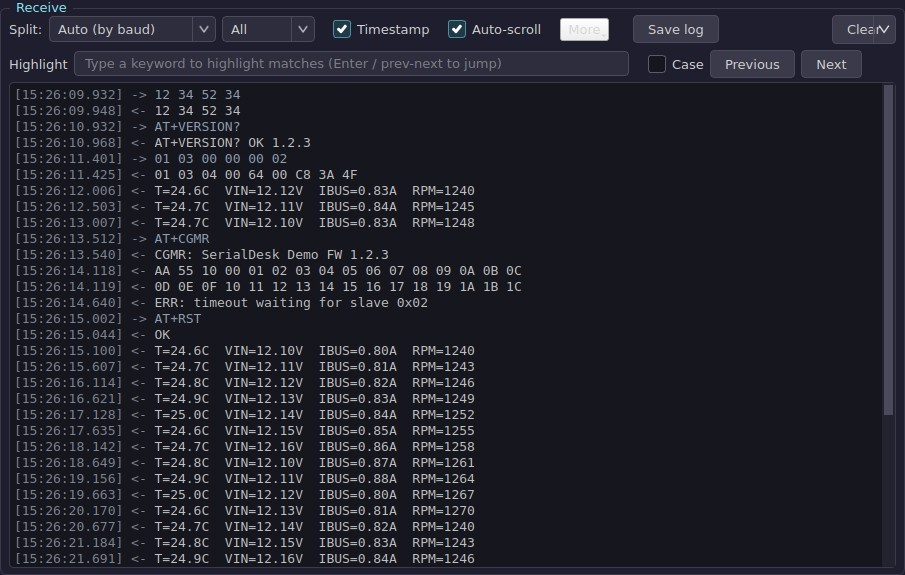
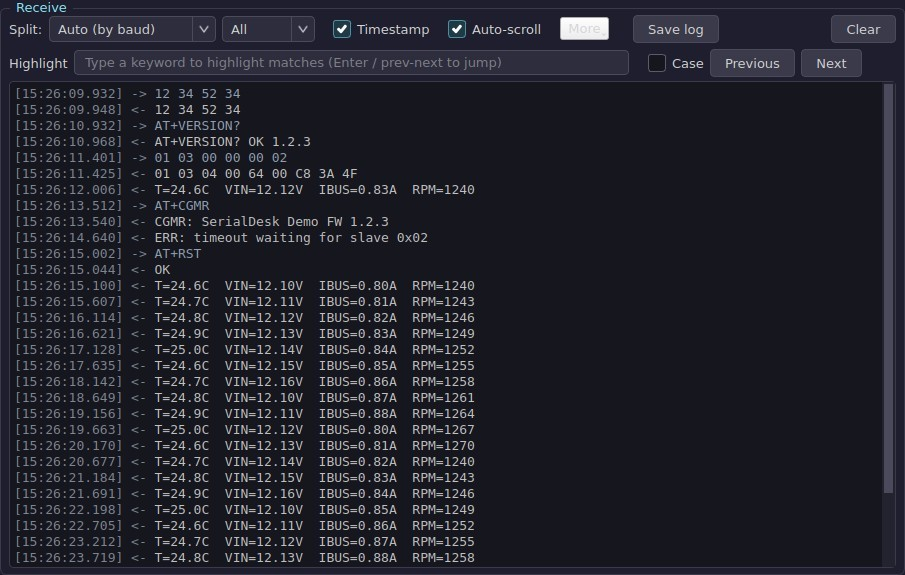
feat(rx): one Clear action - display + counters, no split menu (Andy)
The split button (clear display / clear+counters / reset counters) is a single plain
QPushButton now: one click clears the display and the counters together (still
undoable within 5 s), and Ctrl+L does the same. Removed: the clear-menu and its two
actions, the Settings-menu 'reset counters' entry, on_reset_counters(), the #clearBtn
QSS (dark+light) that gave it the grey fill and the tick-looking dropdown glyph, and
the now-unused i18n keys. Tests updated (150 green), QSS snapshots refreshed, receive
screenshots regenerated.

diff --git a/app/i18n.py b/app/i18n.py
@@ -125,7 +125,6 @@ STRINGS: dict[str, dict[str, str]] = {
     "find.count.tip": {"zh": "当前命中 / 总数", "en": "current hit / total"},
 
     "rx.cleared": {"zh": "已清空接收区（5 秒内可撤销）", "en": "Receive pane cleared (undo within 5 s)"},
-    "rx.counters_reset": {"zh": "计数已清零（显示不变）", "en": "Counters reset (display untouched)"},
     "rx.undo.done": {"zh": "已恢复清空前的显示", "en": "Display restored"},
     "undo.label": {"zh": "撤销", "en": "Undo"},
     "find.label": {"zh": "高亮", "en": "Highlight"},
@@ -137,7 +136,7 @@ STRINGS: dict[str, dict[str, str]] = {
     "find.close.tip": {"zh": "关闭查找（Esc）", "en": "Close the find bar (Esc)"},
     "find.none": {"zh": "未找到: {text}", "en": "Not found: {text}"},
     "sc.send.tip": {"zh": "发送（Ctrl+Enter）", "en": "Send (Ctrl+Enter)"},
-    "sc.clear.tip": {"zh": "清空显示（Ctrl+L，可撤销）", "en": "Clear the display (Ctrl+L, undoable)"},
+    "sc.clear.tip": {"zh": "清空显示与计数（Ctrl+L，5 秒内可撤销）", "en": "Clear the display and the counters (Ctrl+L, undoable within 5 s)"},
     "sc.save.tip": {"zh": "保存接收日志（Ctrl+S）", "en": "Save receive log (Ctrl+S)"},
     "sc.open.tip": {"zh": "打开/关闭串口（F5）", "en": "Open/close the port (F5)"},
     "rx.cap": {
@@ -212,7 +211,6 @@ STRINGS: dict[str, dict[str, str]] = {
         "en": "Tick to prefix every receive line with a timestamp, always shaped like [04:02:10.456]",
     },
     "btn.clear": {"zh": "清空", "en": "Clear"},
-    "btn.clear.all": {"zh": "清空显示与计数", "en": "Clear display and counters"},
     # ---- receive log to file (T4) ----
     "btn.save_log_quick": {"zh": "保存日志", "en": "Save log"},
     "btn.save_log_as": {"zh": "日志另存为…", "en": "Save log as…"},
@@ -331,7 +329,6 @@ STRINGS: dict[str, dict[str, str]] = {
     "update.none": {"zh": "已是最新版本", "en": "You are up to date"},
     "update.fail": {"zh": "检查更新失败（网络或服务不可用）", "en": "Update check failed (network or service unavailable)"},
     "menu.open_log_dir": {"zh": "打开日志目录", "en": "Open logs folder"},
-    "menu.reset_counters": {"zh": "清零计数", "en": "Reset counters"},
     "about.copy": {"zh": "复制诊断信息", "en": "Copy diagnostics"},
     "about.copied": {"zh": "诊断信息已复制到剪贴板", "en": "Diagnostics copied to the clipboard"},
     "menu.shortcuts": {"zh": "快捷键一览…", "en": "Keyboard shortcuts…"},

diff --git a/ui/main_window.py b/ui/main_window.py
@@ -86,7 +86,7 @@ from ui.quick_send_panel import RAIL_W, QuickSendPanel
 from ui.retranslate import retranslate_ui
 from ui.menus import build_menu
 from ui.log_controller import apply_autosave_settings, log_append, log_close, log_header_text, log_open, on_log_line, on_save_log_as, on_save_log_quick, show_autosave_settings
-from ui.receive_controller import append_header_split, append_rx_group, emit_rx_text, flush_byte_frames, flush_rx_frames, on_clear, on_clear_and_counters, on_received, recolor_rx_view, resume_rx_display, rx_tooltip, snapshot_rx_fragments, on_reset_counters, on_filter_changed
+from ui.receive_controller import append_header_split, append_rx_group, emit_rx_text, flush_byte_frames, flush_rx_frames, on_clear, on_clear_and_counters, on_received, recolor_rx_view, resume_rx_display, rx_tooltip, snapshot_rx_fragments, on_filter_changed
 from ui.send_controller import abort_file_send, apply_checksum, clear_history, finish_file_send, flush_history_save, on_history_fill, on_increment_changed, on_quick_send, on_send, on_send_file, prune_history_meta, recall_history, remember_send, remove_history_entries, reset_increment, schedule_history_save, send_file_chunk, show_history, update_history_button, update_payload_size
 from ui.connection_controller import ensure_port, notify, on_opened_changed, on_reconnect_toggled, on_worker_error, poll_signals, recolor_status_light, refresh_ports, signals_html, toggle_open, update_port_tooltip
 from ui.params_controller import baud_value, check_baud, check_hex_input, encoding, format_rx, newline_bytes, on_header_changed, on_split_mode_changed, on_tx_fmt_changed, persist_newline, refresh_tx_settings_chip, serial_params, split_byte_params, split_threshold_ms, ts_prefix, update_input_placeholder
@@ -301,8 +301,6 @@ class MainWindow(QMainWindow):
     def _reset_increment(self) -> None:
         """Qt slot: put the increment counter back to its start value (U180)."""
         return reset_increment(self)
-
-    def _reset_counters(self) -> None: return on_reset_counters(self)
 
     def _on_clear_and_counters(self) -> None:
         """Qt slot: clear the pane and zero the counters (U169 split-button menu)."""

diff --git a/ui/theme.py b/ui/theme.py
@@ -49,10 +49,6 @@ QPushButton:pressed { background: $surface_pressed_alt; }
 QPushButton:disabled { color: $text_disabled; background: $surface_disabled; }
 QPushButton[secondary="true"] { background: $surface_1; border: 1px solid $border_strong; color: $text_secondary; }
 QPushButton[secondary="true"]:hover { background: $border_muted; border-color: $border_hover_soft; }
-QToolButton#clearBtn { background: $border_muted; border: 1px solid $border_strong; border-radius: 4px; padding: 4px 8px; }
-QToolButton#clearBtn:hover { background: $border_strong; }
-QToolButton#clearBtn::menu-button { width: 22px; border: none; border-left: 1px solid $border_strong; }
-QToolButton#clearBtn::menu-arrow { image: url(__ASSETS__/arrow_down_dark.png); width: 14px; height: 14px; }
 QComboBox, QLineEdit {
     background: $surface_1;
     border: 1px solid $border_strong;
@@ -194,10 +190,6 @@ QPushButton:pressed { background: $surface_pressed_alt; }
 QPushButton:disabled { color: $text_disabled; background: $surface_disabled; }
 QPushButton[secondary="true"] { background: $surface_secondary; border: 1px solid $border_secondary; color: $text_secondary; }
 QPushButton[secondary="true"]:hover { background: $surface_secondary_hover; border-color: $border_hover; }
-QToolButton#clearBtn { background: $border_muted; border: 1px solid $border_strong; border-radius: 4px; padding: 4px 8px; }
-QToolButton#clearBtn:hover { background: $surface_soft; }
-QToolButton#clearBtn::menu-button { width: 22px; border: none; border-left: 1px solid $border_strong; }
-QToolButton#clearBtn::menu-arrow { image: url(__ASSETS__/arrow_down_light.png); width: 14px; height: 14px; }
 QComboBox, QLineEdit {
     background: $surface_1;
     border: 1px solid $border_strong;

diff --git a/ui/regions.py b/ui/regions.py
@@ -796,18 +796,13 @@ def _build_display_switches(win: MainWindow, rx_opts: QHBoxLayout) -> None:
     rx_opts.addStretch(1)
     # U169: 清空 is a split button - one click clears the display (unchanged), and
     # the menu exposes the counter actions, which used to be buried in Settings.
-    win.clear_btn = QToolButton()
-    win.clear_btn.setObjectName("clearBtn")
-    win.clear_btn.setText(tr("btn.clear"))
+    # 2026-10-02 (Andy): one plain button, one meaning - clear the display AND the
+    # counters. The split button (clear display / clear+counters / reset counters) was
+    # confusing: three entry points, a grey fill and a dropdown glyph that read as a
+    # tick. The undo toast still covers an accidental click.
+    win.clear_btn = QPushButton(tr("btn.clear"))
     win.clear_btn.setToolTip(tr("sc.clear.tip"))
-    win.clear_btn.setPopupMode(QToolButton.ToolButtonPopupMode.MenuButtonPopup)
-    win.clear_btn.clicked.connect(win.on_clear)
-    win._clear_menu = QMenu(win.clear_btn)
-    win._act_clear_all = win._clear_menu.addAction(tr("btn.clear.all"))
-    win._act_clear_all.triggered.connect(win._on_clear_and_counters)
-    win._act_reset_counters = win._clear_menu.addAction(tr("menu.reset_counters"))
-    win._act_reset_counters.triggered.connect(win._reset_counters)
-    win.clear_btn.setMenu(win._clear_menu)
+    win.clear_btn.clicked.connect(win._on_clear_and_counters)
     rx_opts.addWidget(win.clear_btn)
 
 def _build_status_counters(win: MainWindow) -> None:

diff --git a/tests/test_ui_smoke.py b/tests/test_ui_smoke.py
@@ -222,15 +222,20 @@ def test_clean_copy_strips_timestamps_and_markers(app, win):
     assert "<- " in win.rx_view.toPlainText()   # raw still shows the marker
 
 
-def test_reset_counters_keeps_display(app, win):
-    # U163-N2: zeroing the counters must not clear the pane
+def test_clear_button_clears_display_and_counters(app, win):
+    """2026-10-02 (Andy): one clear action - display + counters.
+
+    The split button (clear display / clear+counters / reset counters) is gone; the
+    single Clear button and Ctrl+L both zero the counters as well.
+    """
     win.rx_view.clear()
     win._emit_rx_text("DATA")
     win.rx_bytes, win.tx_bytes, win._sent_count = 42, 7, 3
-    win._reset_counters()
+    win._on_clear_and_counters()
     app.processEvents()
     assert (win.rx_bytes, win.tx_bytes, win._sent_count) == (0, 0, 0)
-    assert "DATA" in win.rx_view.toPlainText()
+    assert "DATA" not in win.rx_view.toPlainText()
+    assert not hasattr(win, "_reset_counters") and not hasattr(win, "_clear_menu")
 
 
 def test_focus_inside_row_selects_it(app, win):

diff --git a/ui/receive_controller.py b/ui/receive_controller.py
@@ -458,22 +458,13 @@ def on_clear(win: MainWindow):
         win._notify(tr("rx.cleared"), "warn", ms=5000)
 
 
-def on_reset_counters(win: MainWindow) -> None:
-    "on reset counters"
-    """Zero the RX/TX byte and send counters, leaving the display alone (N2/U163)."""
-    win.rx_bytes = 0
-    win.tx_bytes = 0
-    win._sent_count = 0
-    win.update_counts()
-    win._notify(tr("rx.counters_reset"), "info", ms=3000)
-
-
 def on_clear_and_counters(win: MainWindow) -> None:
     "on clear and counters"
-    """U169: clear the pane and zero the counters in one step (menu item).
+    """U169/2026-10-02: clear the pane and zero the counters in one step.
 
-    on_clear runs first, so the undo snapshot still holds the pre-clear counters
-    and undoing brings both the text and the numbers back.
+    This is the only clear action now (Andy: one button, one meaning). on_clear runs
+    first, so the undo snapshot still holds the pre-clear counters and undoing brings
+    both the text and the numbers back.
     """
     on_clear(win)
     win.rx_bytes = 0

diff --git a/ui/menus.py b/ui/menus.py
@@ -179,11 +179,6 @@ def _build_config_menu(win: MainWindow) -> None:
         lambda: QDesktopServices.openUrl(QUrl.fromLocalFile(log_dir())))
     win._cfg_menu.addAction(win._open_log_dir_act)
 
-    # N2/U163: counters are zeroed separately from clearing the display
-    win._reset_counters_act = QAction(tr("menu.reset_counters"), win)
-    win._reset_counters_act.triggered.connect(win._reset_counters)
-    win._cfg_menu.addAction(win._reset_counters_act)
-
 
 def _build_io_section(win: MainWindow) -> None:
     """Auto-save, auto-reply rules, auto-reconnect, shortcuts and the about box."""

diff --git a/ui/actions_controller.py b/ui/actions_controller.py
@@ -600,7 +600,7 @@ def setup_shortcuts(win: MainWindow) -> None:
     """Daily-flow keyboard shortcuts (U39)."""
     for seq, handler in (
         ("Ctrl+Return", win.on_send),
-        ("Ctrl+L", win.on_clear),
+        ("Ctrl+L", win._on_clear_and_counters),
         ("Ctrl+S", win.on_save_log_quick),
         ("Ctrl+K", lambda: win.tx_edit.setFocus()),
         ("F5", win.toggle_open),

diff --git a/CHANGELOG.md b/CHANGELOG.md
@@ -9,6 +9,11 @@
   setting to hunt for.
 - **The receive pane always wraps** (Andy 2026-10-02): the "Wrap" item left the More menu
   as well; long RX lines wrap by default.
+- **One Clear action** (Andy 2026-10-02): the receive area's split button (clear display /
+  clear + counters / reset counters, drawn with a grey fill and a dropdown glyph that read
+  as a tick) is a single plain "Clear" button now - one click clears the display and the
+  counters together, still undoable within 5 s. The duplicate "reset counters" entry left
+  the Settings menu and Ctrl+L does the same thing.
 
 
 ## [v1.8.7] - 2026-10-02
